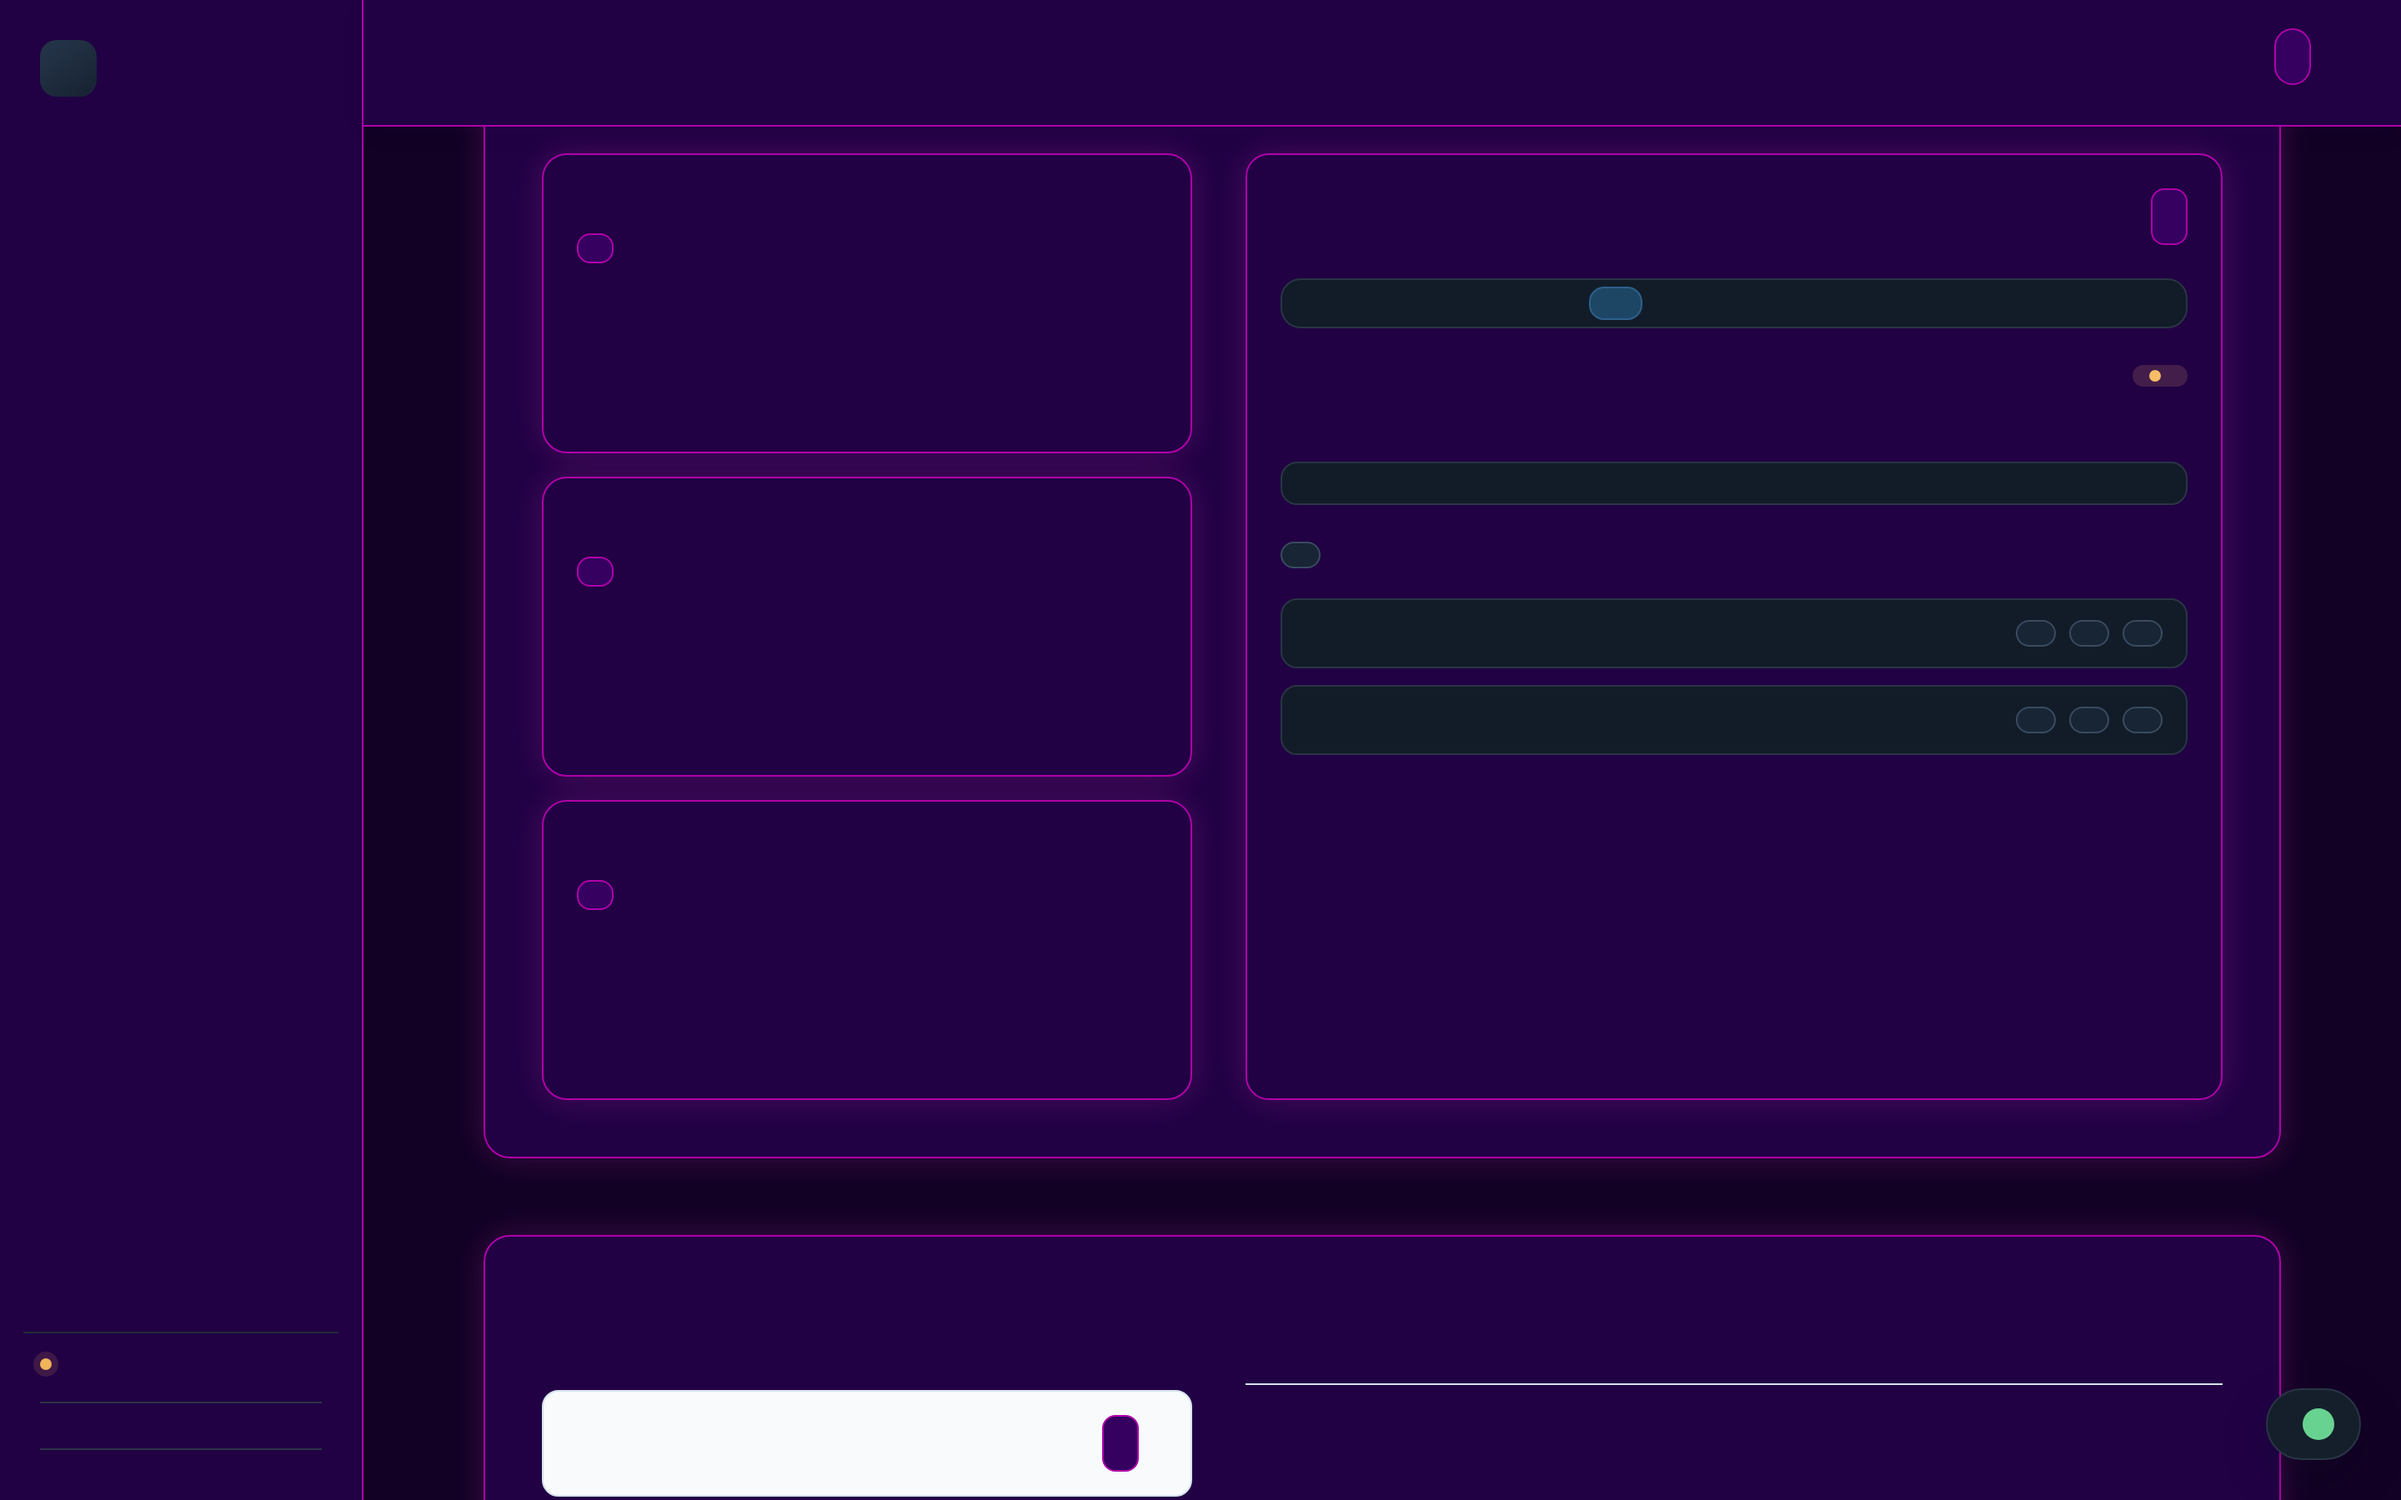
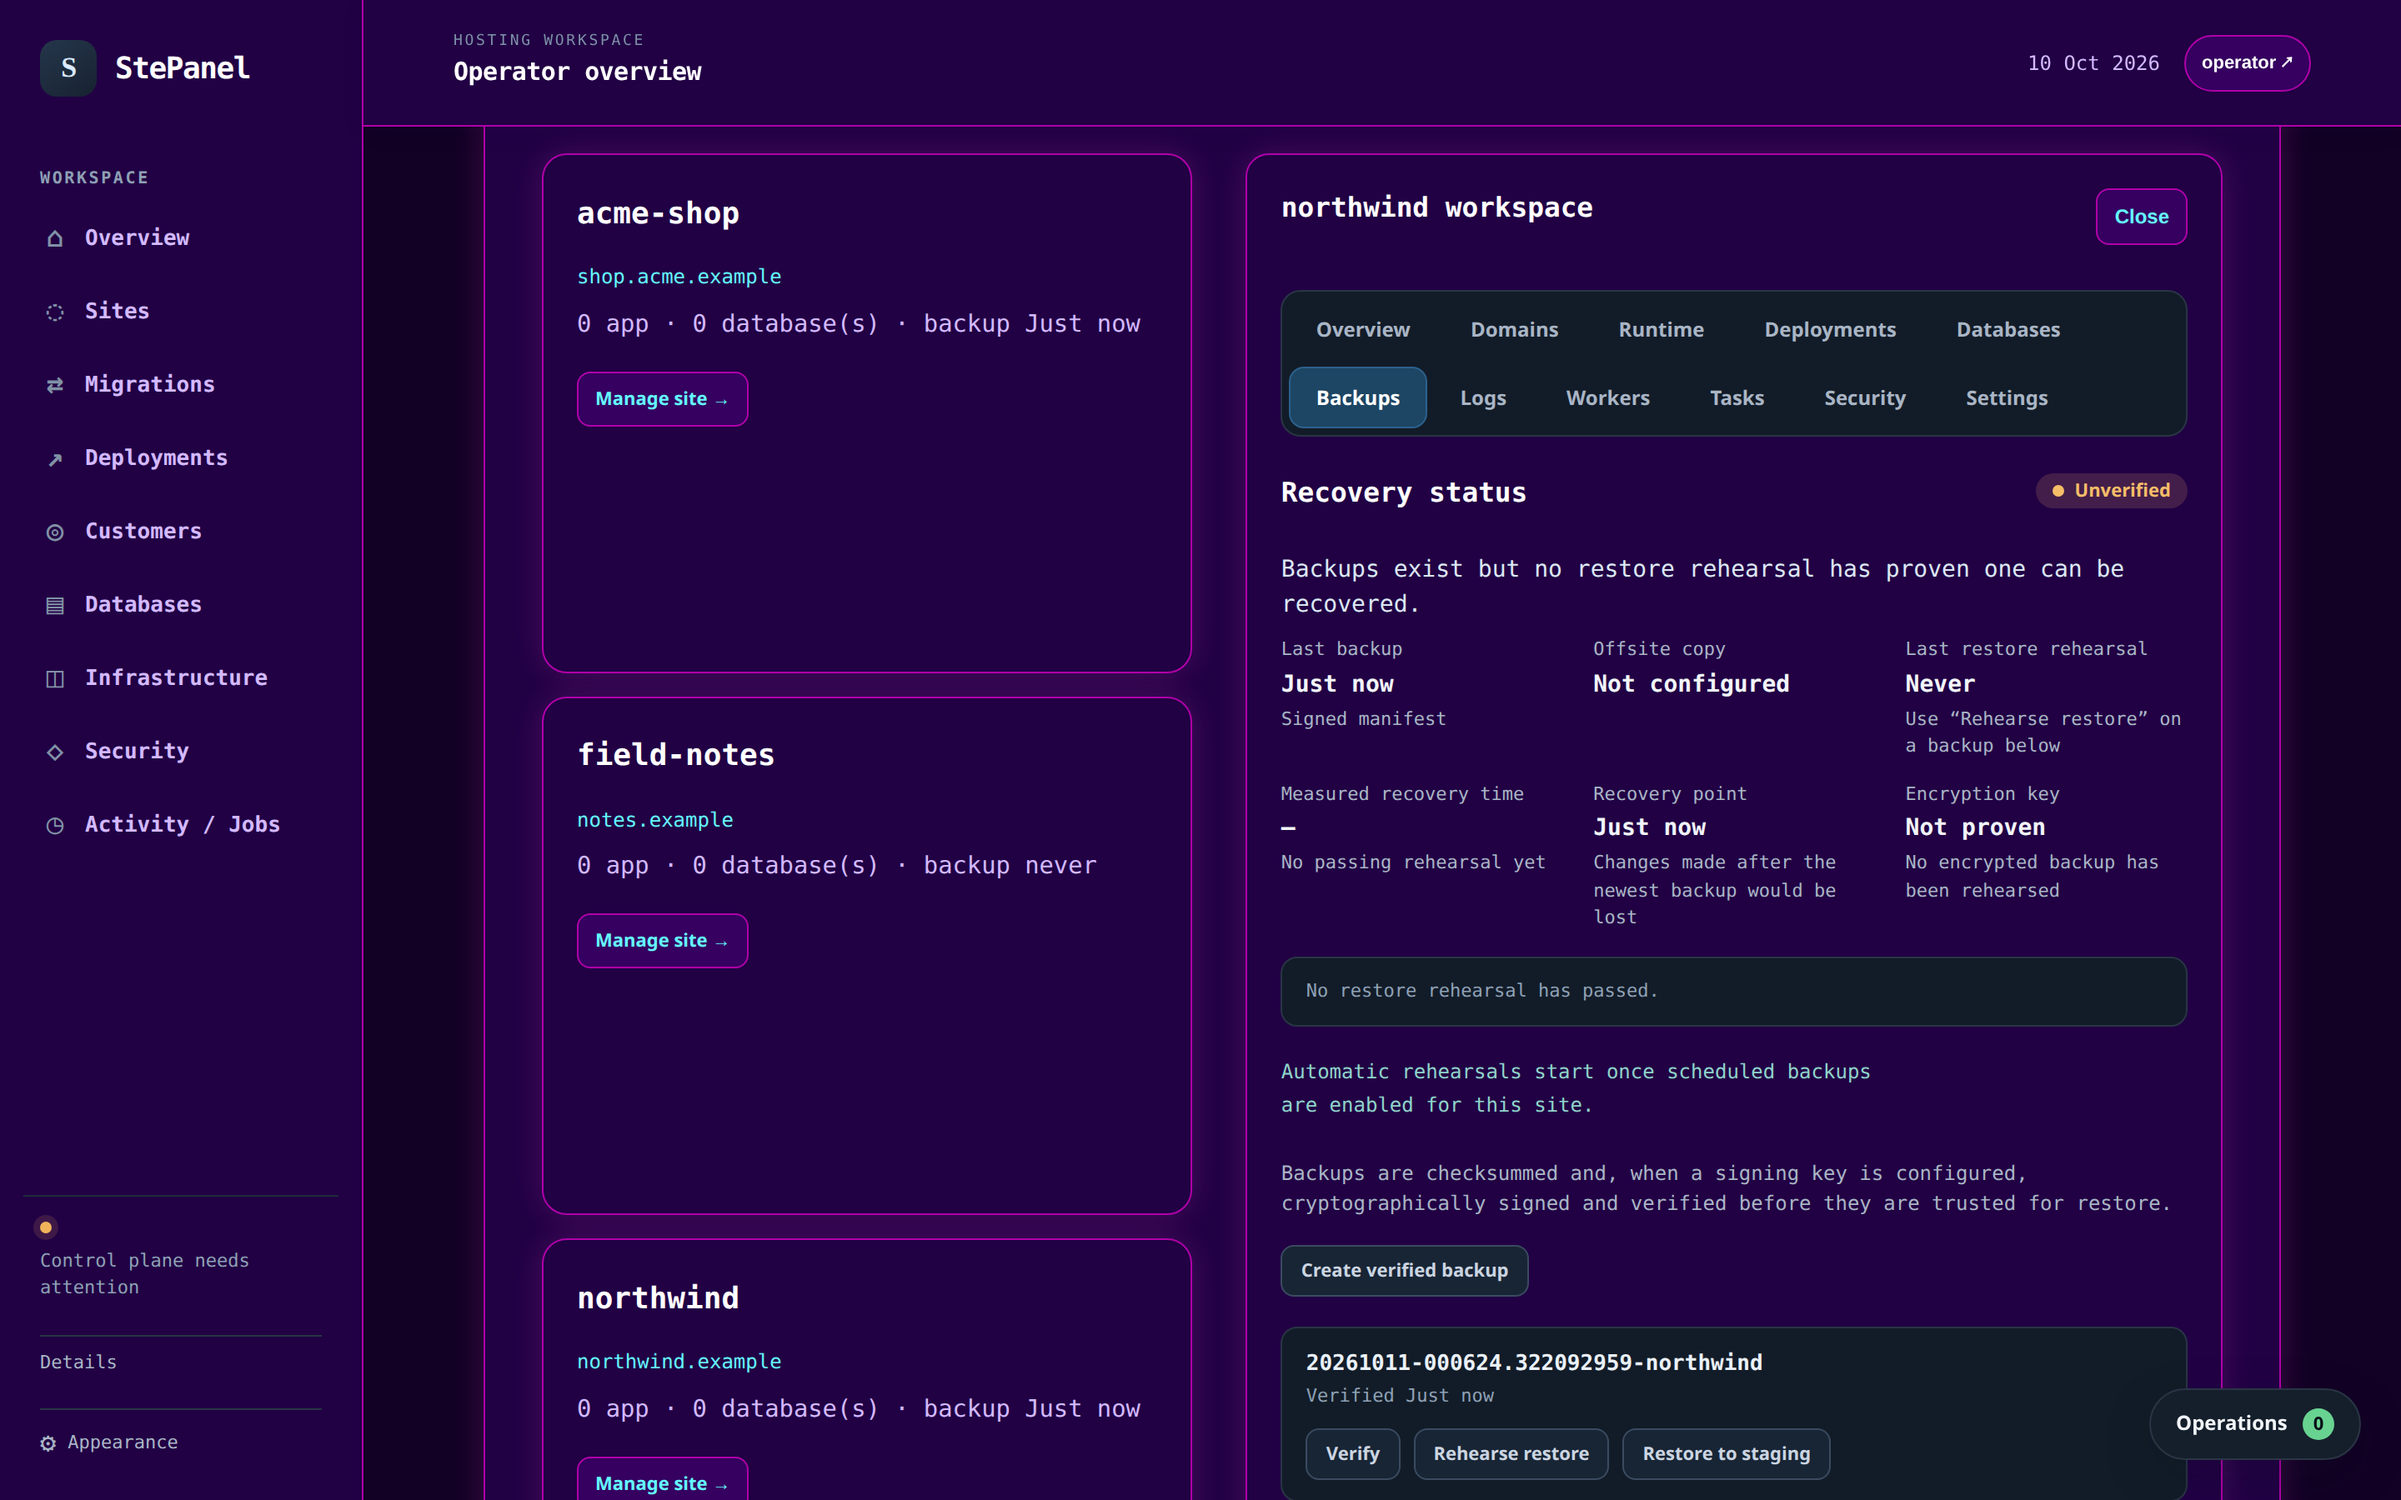
Polish GUI preview rendering

diff --git a/scripts/capture-screenshots.js b/scripts/capture-screenshots.js
@@ -121,6 +121,14 @@ async function show(page, selector) {
 async function settle(page) {
   await page.waitForLoadState('load');
   await page.waitForFunction(() => !/Loading/.test(document.body.innerText), null, { timeout: 15000 }).catch(() => {});
+  await page.waitForFunction(() => {
+    const candidates = document.querySelectorAll('.hero h1, .metric strong, .workspace-nav a, .site-card h3');
+    return [...candidates].some((element) => {
+      const box = element.getBoundingClientRect();
+      const style = getComputedStyle(element);
+      return element.textContent.trim() && box.width > 0 && box.height > 0 && style.visibility !== 'hidden';
+    });
+  }, null, { timeout: 15000 });
   await page.waitForTimeout(1200);
 }
 
@@ -173,7 +181,10 @@ async function capture(page, name) {
     await show(page, '#jobs');
     await capture(page, 'activity');
 
-    const phone = await browser.newContext({ viewport: mobile, deviceScaleFactor: 3, colorScheme: 'dark', isMobile: true, hasTouch: true });
+    // Use the responsive viewport without mobile device emulation. The
+    // latter can produce zero-size text in headless browser builds while the
+    // CSS breakpoint layout remains fully representative at this width.
+    const phone = await browser.newContext({ viewport: mobile, deviceScaleFactor: 3, colorScheme: 'dark' });
     await phone.addInitScript((preferences) => {
       window.localStorage.setItem('stepanel.appearance.v1', JSON.stringify(preferences));
     }, retroNeonPreferences);

diff --git a/CHANGELOG.md b/CHANGELOG.md
@@ -8,6 +8,9 @@ The format follows [Keep a Changelog](https://keepachangelog.com/en/1.1.0/), and
 
 ### Changed
 
+- Hardened preview capture against zero-glyph browser output by preferring the
+  installed Chrome channel and requiring visible dashboard text before saving.
+
 - Updated the README preview gallery to identify and display the Retro 80s
   Neon screenshots.
 
